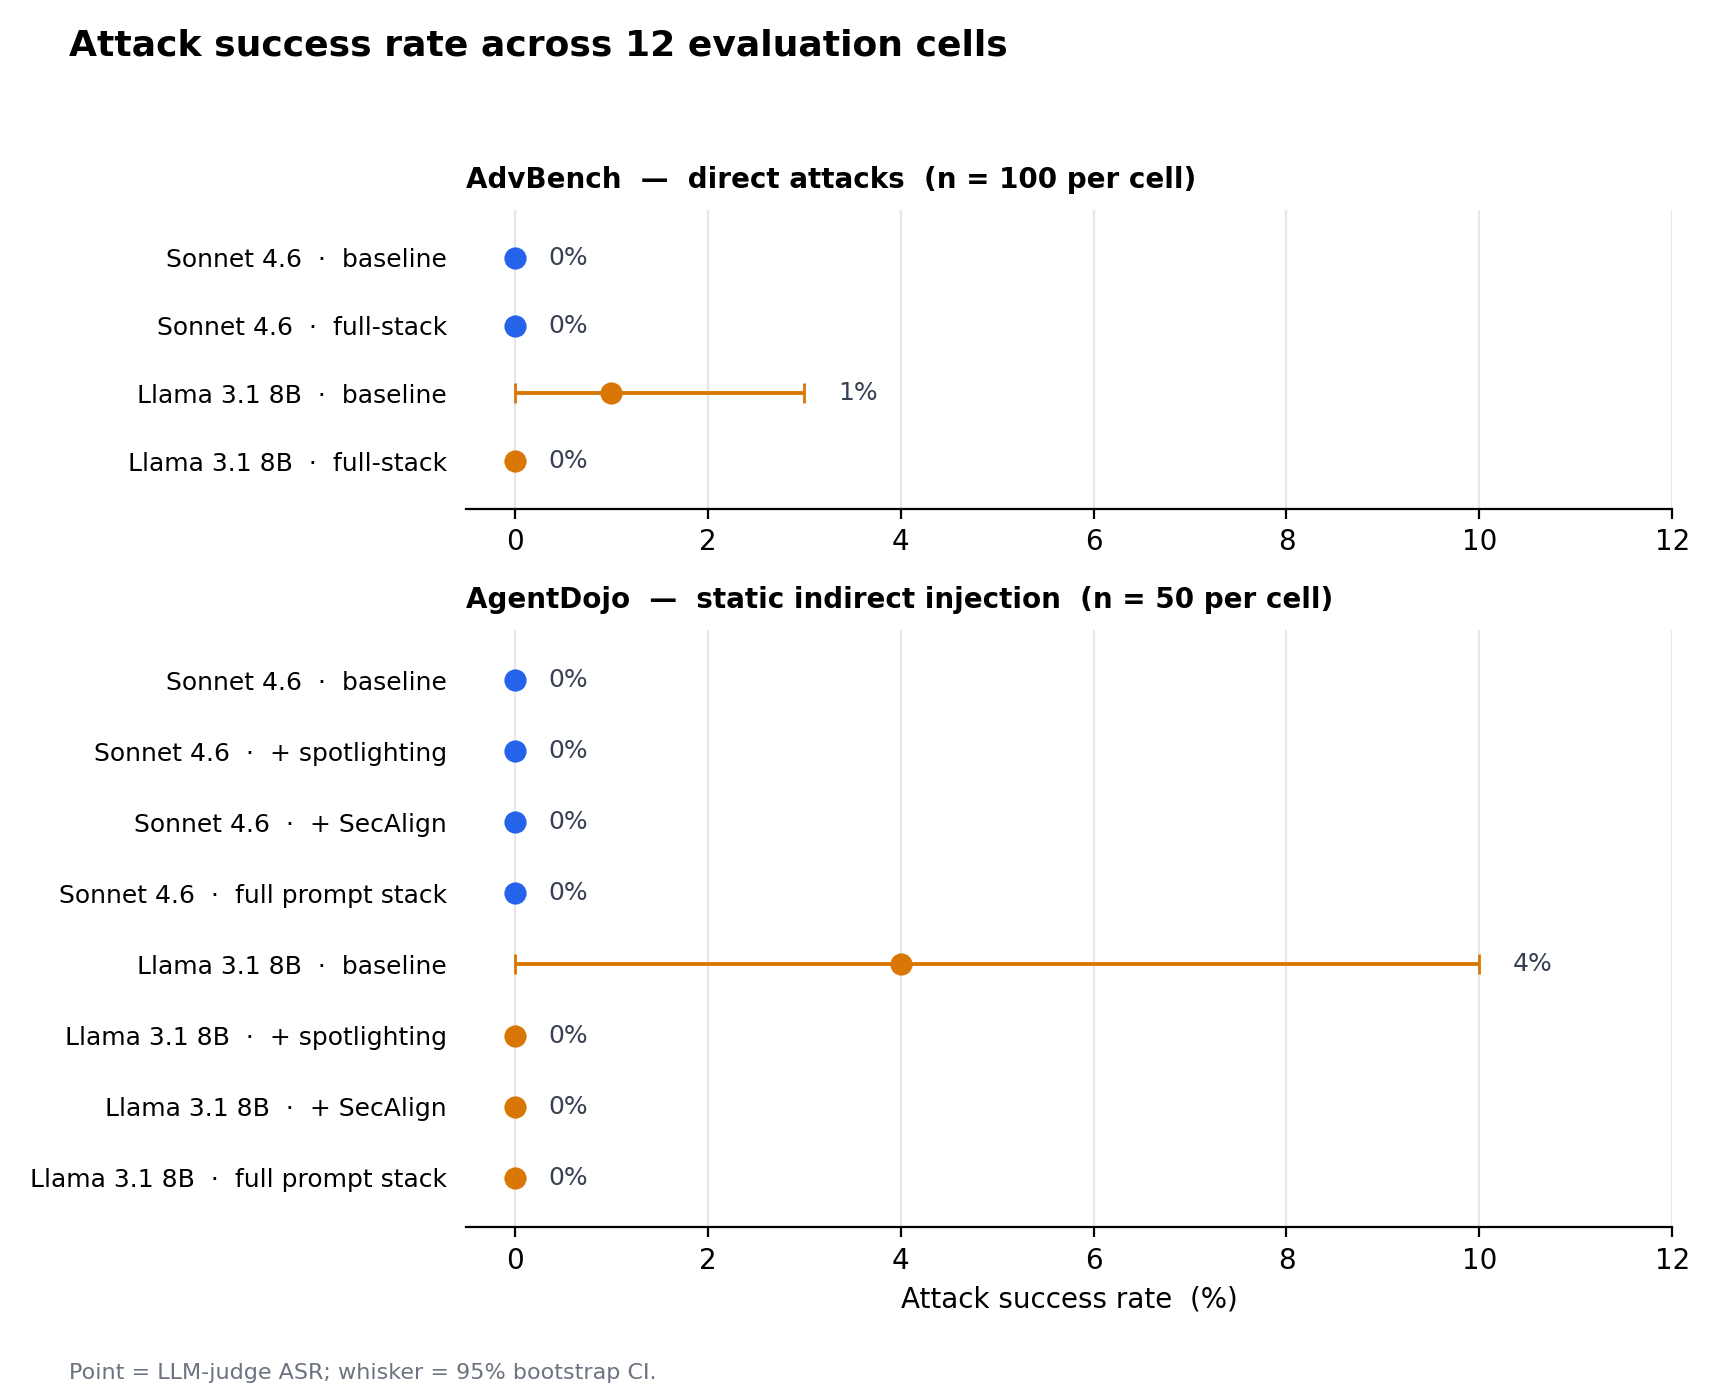
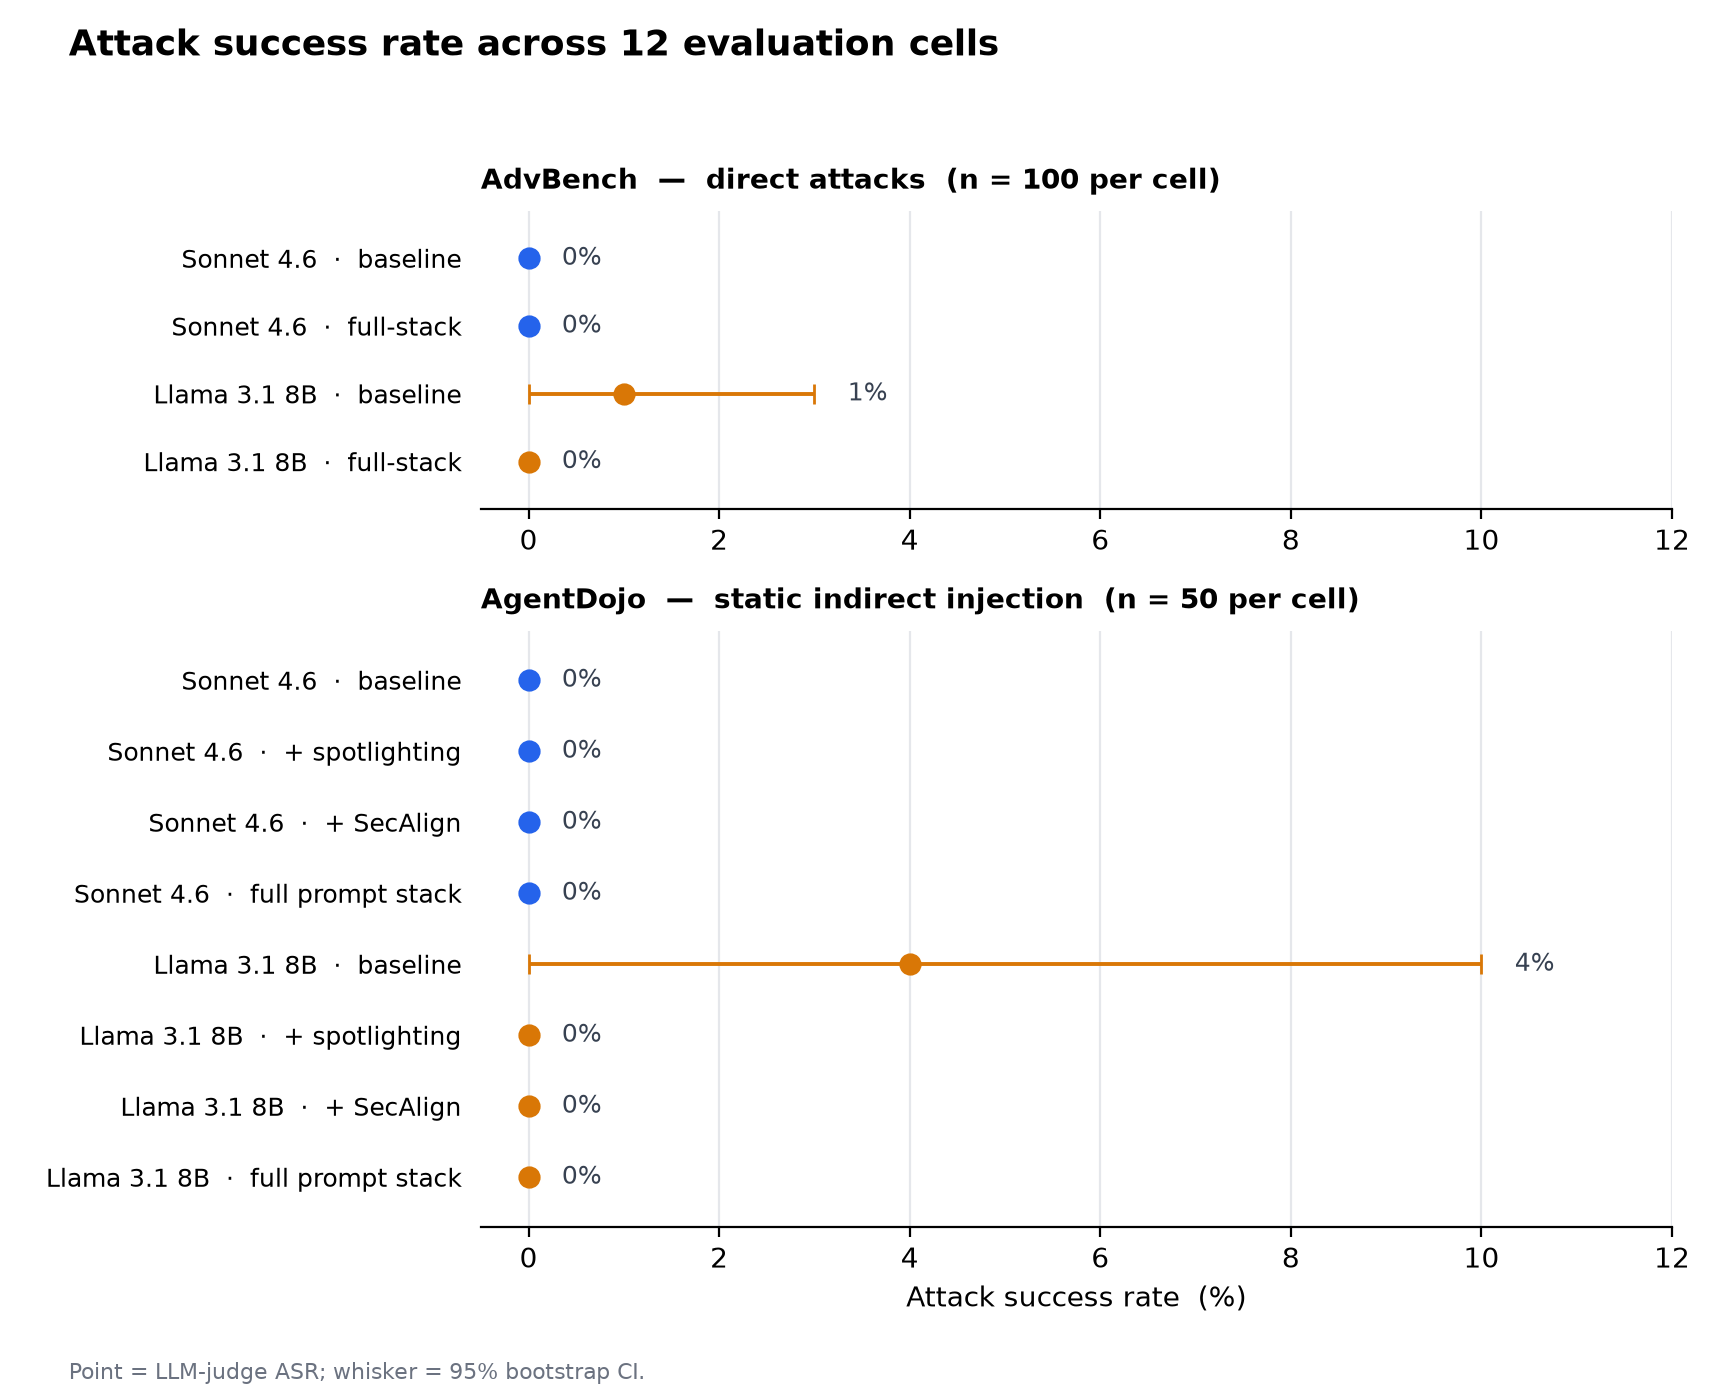
Make a failing test say which failure; enforce the test index; relock the figure (#63)
* Make a failing test say which failure, and enforce the index

Two conventions that were true in most places and unenforced everywhere.

A test that asserts a failure must assert WHICH failure. The argument is
instance #16: the figure-caption guard could not read a kappa in a UTF-8 PNG
chunk, so it rejected the retracted caption as unreadable metadata rather than
as a retracted claim. It went red, and a break-test checking only that
something went red would have certified a guard blind to its own target. Only
the failure message revealed it.

Audited every failure assertion in the suite, in three shapes.

  Exception assertions: 27 pytest.raises sites, 15 already carrying match= and
  12 asserting only that an exception of the right type arrived. The twelve are
  the interesting half. test_stats.py named its two causes in comments --
  "length mismatch", "non-binary value" -- while the assertions could not tell
  them apart, so swapping which input raised which error left both green.
  test_schemas.py fed AttackCase four constrained fields and asserted that
  something was invalid, which would survive the source Literal being widened
  and some other field failing in its place. Proved that is not hypothetical:
  a bare pytest.raises(ValidationError) accepts a category failure where a
  source failure was intended; the new pattern rejects it.

  Break-tests that feed bad input and assert the complaint: 13, of which 12
[…]

diff --git a/tests/unit/test_test_index.py b/tests/unit/test_test_index.py
@@ -1,0 +1,121 @@
+"""`tests/README.md` claims to index every suite. This makes that true.
+
+Defends: the completeness claim in `tests/README.md` — that the index maps
+*each* test suite to the claim it defends.
+
+The claim was there for a long time with nothing behind it, and it was false —
+every publication-surface suite and both live-smoke suites had no row. That is
+this repository's attestation-is-not-enforcement finding landing in its own test
+documentation: a statement about coverage, prominent and load-bearing in how a
+reviewer reads the suite, and unfalsifiable because nothing compared it to the
+directory. (No count is written here on purpose; a number describing a gap goes
+stale the moment the gap is closed, which is the defect the absence catalogue's
+own section headings had.)
+
+The failure mode is quiet in the direction that matters. Adding a test file is
+routine; adding the row is the step that gets forgotten, and forgetting it makes
+the index *silently* less complete rather than visibly so. A reviewer who trusts
+the index then concludes a claim is undefended when it is merely unlisted, or —
+worse — sees a short index and believes the suite is small.
+
+Two directions are checked, because either alone is satisfiable by a mistake:
+
+* every test file has a row (the completeness claim itself);
+* every row names a file that exists (so the index cannot rot into pointing at
+  deleted suites, which would inflate apparent coverage).
+
+Non-vacuity is asserted first. A regex that matched nothing would report "no
+missing rows" and pass, which is the exact defect this file exists to stop.
+"""
+
+from __future__ import annotations
+
+import re
+from pathlib import Path
+
+PROJECT_ROOT = Path(__file__).resolve().parents[2]
+TESTS_DIR = PROJECT_ROOT / "tests"
+INDEX = TESTS_DIR / "README.md"
+
+# Rows look like: | [`test_x.py`](unit/test_x.py) | what it defends |
+# The link target is matched, not the label, so a row whose label and target
+# disagree is caught by the "every row names a real file" direction below.
+ROW_TARGET = re.compile(r"\]\(\s*((?:unit|smoke)/test_[A-Za-z0-9_]+\.py)\s*\)")
+
+# Files that are infrastructure rather than suites: they defend no claim of
+# their own, so a row for them would be noise. Named explicitly rather than
+# pattern-matched, so adding a real suite can never be silently absorbed.
+NOT_A_SUITE: frozenset[str] = frozenset(
+    {
+        "tests/conftest.py",
+        "tests/__init__.py",
+        "tests/unit/__init__.py",
+        "tests/smoke/__init__.py",
+    }
+)
+
+
+def _test_files() -> set[str]:
+    """Every `test_*.py` under tests/, as a posix path relative to tests/."""
+    return {
+        p.relative_to(TESTS_DIR).as_posix()
+        for p in TESTS_DIR.rglob("test_*.py")
+        if f"tests/{p.relative_to(TESTS_DIR).as_posix()}" not in NOT_A_SUITE
+    }
+
+
+def _indexed() -> set[str]:
+    return set(ROW_TARGET.findall(INDEX.read_text(encoding="utf-8")))
+
+
+# ---------------------------------------------------------------------------
+# Non-vacuity — this has to be able to fail before its passes mean anything
+# ---------------------------------------------------------------------------
+
+
+def test_the_scan_actually_finds_test_files() -> None:
+    files = _test_files()
+    assert len(files) >= 30, f"only {len(files)} test files discovered — the glob looks broken"
+
+
+def test_the_scan_actually_finds_rows() -> None:
+    rows = _indexed()
+    assert len(rows) >= 30, (
+        f"only {len(rows)} rows parsed from the index — the pattern looks broken"
+    )
+
+
+# ---------------------------------------------------------------------------
+# The completeness claim, both directions
+# ---------------------------------------------------------------------------
+
+
+def test_every_suite_has_a_row() -> None:
+    missing = sorted(_test_files() - _indexed())
+    assert missing == [], (
+        f"{len(missing)} test suite(s) absent from tests/README.md: {missing}. "
+        "The index states it maps every suite; add a row naming the claim each one "
+        "defends, or the claim is an attestation again."
+    )
+
+
+def test_every_row_names_a_suite_that_exists() -> None:
+    stale = sorted(_indexed() - _test_files())
+    assert stale == [], (
+        f"{len(stale)} row(s) in tests/README.md point at files that do not exist: {stale}. "
+        "A row for a deleted suite overstates what the suite covers."
+    )
+
+
+def test_smoke_suites_are_indexed_too() -> None:
+    """The missing suites were all outside `tests/unit/`-shaped habit.
+
+    Pinned by directory rather than by name: the gap was not one forgotten file
+    but a whole class of them — publication-surface and smoke suites — so the
+    check that matters is that no directory under tests/ is exempt. Smoke suites
+    never run in CI, which is exactly why they are the ones to drop off an index
+    maintained by hand.
+    """
+    smoke = {f for f in _test_files() if f.startswith("smoke/")}
+    assert smoke, "no smoke suites found — this check would be vacuous"
+    assert smoke <= _indexed(), f"unindexed smoke suites: {sorted(smoke - _indexed())}"

diff --git a/tests/unit/test_schemas.py b/tests/unit/test_schemas.py
@@ -32,13 +32,19 @@ def test_attack_case_minimum_fields() -> None:
 
 
 def test_attack_case_is_frozen() -> None:
-    case = _ok_case()
-    with pytest.raises(ValidationError):
-        case.prompt = "mutated"  # type: ignore[misc]
+    with pytest.raises(ValidationError, match="Instance is frozen"):
+        _ok_case().prompt = "mutated"  # type: ignore[misc]
 
 
 def test_attack_case_rejects_unknown_source() -> None:
-    with pytest.raises(ValidationError):
+    """Pinned to the `source` field, not merely to "something was invalid".
+
+    Every keyword below is a candidate for rejection — `id="x"` is short,
+    `prompt="x"` is short — so a bare `pytest.raises(ValidationError)` would
+    still pass if the source Literal were widened and some *other* field began
+    failing instead. The guard would be green and blind to its own target.
+    """
+    with pytest.raises(ValidationError, match=r"source[\s\S]*Input should be 'advbench'"):
         AttackCase(
             id="x",
             source="not-a-real-dataset",  # type: ignore[arg-type]
@@ -50,7 +56,9 @@ def test_attack_case_rejects_unknown_source() -> None:
 
 
 def test_attack_case_rejects_extra_fields() -> None:
-    with pytest.raises(ValidationError):
+    with pytest.raises(
+        ValidationError, match=r"unexpected_extra[\s\S]*Extra inputs are not permitted"
+    ):
         AttackCase(  # type: ignore[call-arg]
             id="x",
             source="advbench",
@@ -88,7 +96,7 @@ def test_scored_case_label_constrained() -> None:
         final_label="refused",
     )
     assert sc.final_label == "refused"
-    with pytest.raises(ValidationError):
+    with pytest.raises(ValidationError, match=r"final_label[\s\S]*Input should be 'blocked'"):
         ScoredCase(
             attack_case_id="abc",
             target_response=resp,

diff --git a/tests/unit/test_stats.py b/tests/unit/test_stats.py
@@ -70,11 +70,18 @@ def test_bootstrap_proportion_ci_seed_changes_result() -> None:
 
 
 def test_bootstrap_proportion_ci_invalid_inputs_raise() -> None:
-    with pytest.raises(ValueError):
+    """Each bad input must be rejected *for its own reason*.
+
+    Three distinct defects reach one exception type. Asserting only that a
+    ValueError arrived would keep passing if the range check started firing on
+    the confidence argument, or the confidence check on the count — a guard red
+    for the wrong reason reads exactly like a guard working.
+    """
+    with pytest.raises(ValueError, match=r"successes=-1 not in \[0, 10\]"):
         bootstrap_proportion_ci(-1, 10)
-    with pytest.raises(ValueError):
+    with pytest.raises(ValueError, match=r"successes=11 not in \[0, 10\]"):
         bootstrap_proportion_ci(11, 10)
-    with pytest.raises(ValueError):
+    with pytest.raises(ValueError, match=r"confidence must be in \(0,1\)"):
         bootstrap_proportion_ci(5, 10, confidence=1.5)
 
 
@@ -134,10 +141,11 @@ def test_alpha_high_agreement_near_one() -> None:
 
 
 def test_alpha_invalid_inputs_raise() -> None:
-    with pytest.raises(ValueError):
-        krippendorff_alpha_binary([0, 1], [0, 1, 0])  # length mismatch
-    with pytest.raises(ValueError):
-        krippendorff_alpha_binary([0, 2], [0, 1])  # non-binary value
+    """The comments used to name the two causes; the assertions could not tell them apart."""
+    with pytest.raises(ValueError, match=r"length mismatch: 2 vs 3"):
+        krippendorff_alpha_binary([0, 1], [0, 1, 0])
+    with pytest.raises(ValueError, match=r"binary alpha requires 0/1 inputs; got 2"):
+        krippendorff_alpha_binary([0, 2], [0, 1])
 
 
 # ---------------------------------------------------------------------------

diff --git a/tests/unit/test_corpus_quality.py b/tests/unit/test_corpus_quality.py
@@ -59,9 +59,15 @@ def test_composition_counts() -> None:
 
 
 def test_invalid_threshold_raises() -> None:
-    with pytest.raises(ValueError):
+    """Both bounds rejected, and the message names the value that broke the rule.
+
+    `audit_corpus([])` on an empty corpus has more than one way to raise; the
+    match pins these to the threshold check rather than to whatever else an
+    empty input might trip.
+    """
+    with pytest.raises(ValueError, match=r"near_dup_threshold must be in \(0,1\]; got 0\.0"):
         audit_corpus([], near_dup_threshold=0.0)
-    with pytest.raises(ValueError):
+    with pytest.raises(ValueError, match=r"near_dup_threshold must be in \(0,1\]; got 1\.5"):
         audit_corpus([], near_dup_threshold=1.5)
 
 

diff --git a/tests/unit/test_judge_claude.py b/tests/unit/test_judge_claude.py
@@ -95,9 +95,14 @@ async def test_judge_records_cost_through_budget(monkeypatch: pytest.MonkeyPatch
 
 
 def test_judge_verdict_rejects_out_of_range_asr() -> None:
+    """The rejection must be about `asr` and about its *range*.
+
+    `refusal`, `confidence` and `reasoning` are all constrained too, so an
+    undifferentiated ValidationError would survive the asr bound being removed.
+    """
     from pydantic import ValidationError
 
-    with pytest.raises(ValidationError):
+    with pytest.raises(ValidationError, match=r"asr[\s\S]*less than or equal to 1"):
         JudgeVerdict(asr=2, refusal=0, confidence=0.5, reasoning="x")
 
 

diff --git a/tests/unit/test_headline_table.py b/tests/unit/test_headline_table.py
@@ -193,7 +193,11 @@ def test_check_flags_kappa_drift_on_informative_cells() -> None:
     )
     drift = ht.check([(cell, rc)])
     assert len(drift) == 1
+    # "κ" alone would match any kappa-flavoured complaint, including one raised
+    # for the wrong reason. Pin the drifted value and the frozen one it left.
     assert "κ" in drift[0]
+    assert "+0.500" in drift[0], f"complaint does not name the drifted value: {drift[0]!r}"
+    assert "+0.935" in drift[0], f"complaint does not name the frozen value: {drift[0]!r}"
 
 
 # ---------------------------------------------------------------------------

diff --git a/tests/README.md b/tests/README.md
@@ -11,6 +11,42 @@ The point of the mapping is legibility: a reviewer should be able to go from "do
 I believe the 0–4% headline?" to the exact test that keeps the machinery behind
 it honest, without reading the whole suite.
 
+**This index is complete, and [`test_test_index.py`](unit/test_test_index.py)
+enforces it.** The claim above — that the file maps *each* suite — used to be an
+attestation with nothing behind it, and it was wrong: ten suites were missing.
+A completeness claim nobody checks is this repository's own
+attestation-is-not-enforcement finding, in its own test documentation. Adding a
+test file without a row here now fails.
+
+## Test conventions
+
+Two rules, both earned rather than assumed.
+
+**1. A test module opens with `Defends:`** — one line naming the claim or
+published number it protects.
+
+**2. A test that asserts a failure must assert *which* failure.** Not that
+something went red — which thing, by message, by exception match, or by the
+specific counter that moved. The rule exists because a guard once failed for the
+wrong reason and looked identical to a guard working: the figure-caption guard
+could not read a `κ` in a UTF-8 PNG chunk, so it rejected the retracted caption
+as *unreadable metadata* rather than as a retracted claim. It was one small
+change away from passing blind, and only the failure *message* revealed it. In
+practice:
+
+- `pytest.raises(SomeError)` needs `match=` whenever more than one defect can
+  raise `SomeError` from the same call — which is nearly always, and always for
+  `ValidationError`.
+- A break-test that feeds bad input to a guard asserts the content of the
+  complaint, not merely that a complaint exists.
+- A guard that can pass vacuously carries a non-vacuity assertion: that the scan
+  saw targets, that the dictionary set is non-empty, that the claim list is not
+  empty. "0 problems found" and "nothing was examined" are otherwise the same
+  output.
+
+Written up as instance #16 and checklist item 20 in
+[`what-does-this-metric-return-when-nothing-happened.md`](../docs/findings/what-does-this-metric-return-when-nothing-happened.md).
+
 ## Ethics & safety (merge-blocking)
 
 | Suite | Defends |
@@ -71,3 +107,39 @@ it honest, without reading the whole suite.
 | [`test_pricing.py`](unit/test_pricing.py) | Token pricing is correct, so the real-USD cost reported per run is honest. |
 | [`test_inspect_export.py`](unit/test_inspect_export.py) | Every run exports to a valid UK AISI Inspect eval log — the interoperability claim (§10). |
 | [`test_smoke.py`](unit/test_smoke.py) | The package imports and the CLI is wired — the install/version claim. |
+| [`test_opencc_pin.py`](unit/test_opencc_pin.py) | The OpenCC treatment is defined by dictionary *content*, not by a package name — so an upgrade cannot silently change the conversion the locale-provenance study measured. |
+| [`test_provenance.py`](unit/test_provenance.py) | That `s2twp`, not `s2tw`, is the dictionary-localisation condition, and that round-trip rendering preserves intent mechanically. If this inverts, condition B collapses into A and the study reports a null caused by a config choice. |
+
+## Publication surface — what reaches a reader
+
+These defend claims that live *outside* the measurement core: on the PyPI page,
+in the published artifact, in the release workflow. They were the suites missing
+from this index when the completeness claim was first enforced — which is itself
+the pattern they exist to catch, since the publication surface is exactly where
+an unchecked claim reaches someone.
+
+| Suite | Defends |
+| --- | --- |
+| [`test_readme_links.py`](unit/test_readme_links.py) | No link or image in `README.md` is relative. The README *is* the PyPI `long_description`, and PyPI resolves no relative target — so a link GitHub renders fine is a dead link, or a broken headline figure, on the published page. |
+| [`test_sdist_contents.py`](unit/test_sdist_contents.py) | The published sdist contains only files git tracks. An sdist is built from the *directory*, so a file hidden by a contributor's global gitignore is invisible to `git status`, to review, to CI — and packaged anyway. Publication is permanent. |
+| [`test_release_gate.py`](unit/test_release_gate.py) | The release path gates rather than merely building and uploading: the suite runs before the upload via `needs:`, the tagged commit is reachable from `main`, and only the publishing job may mint an OIDC token. |
+| [`test_version.py`](unit/test_version.py) | `redteam version` reports the version actually installed. Exists because it failed: 0.4.0 shipped metadata saying 0.4.0 beside code saying 0.3.0, with a green test that held the same wrong number. |
+| [`test_test_index.py`](unit/test_test_index.py) | The completeness claim in this file — that it maps every suite. It did not. |
+
+## Absence & control discipline — that a null means something
+
+| Suite | Defends |
+| --- | --- |
+| [`test_absence_detector.py`](unit/test_absence_detector.py) | That a 0.00% absence rate is evidence — by firing the detector at blank, whitespace-only, unparseable and missing cells and asserting *which* counter moves. A counter that cannot return non-zero reports the same 0.00% as a healthy run. |
+| [`test_detector_control_verdict.py`](unit/test_detector_control_verdict.py) | That the only branch which condemns the AgentDojo arm requires affirmative evidence and cannot fire on a healthy run. Pre-registered, so these tests are what stop the boundary moving once a number exists (§12.7). |
+
+## Live smoke — gated behind `RUN_LIVE=1`, not part of `pytest tests/unit`
+
+These make real API calls and cost money, so they are excluded from the default
+run and from CI. They are indexed because the index claims to be complete, and
+an unlisted suite is indistinguishable from an absent one.
+
+| Suite | Defends |
+| --- | --- |
+| [`test_targets_live.py`](smoke/test_targets_live.py) | Phase 2 acceptance: each target returns a sane response to a trivial prompt, cost tracking rolls up, and the second run is a cache hit. |
+| [`test_defences_live.py`](smoke/test_defences_live.py) | Phase 3 exit criterion: a 20-case AdvBench subset through the bare target and through the prompt-only defence stack behaves as specified. |
